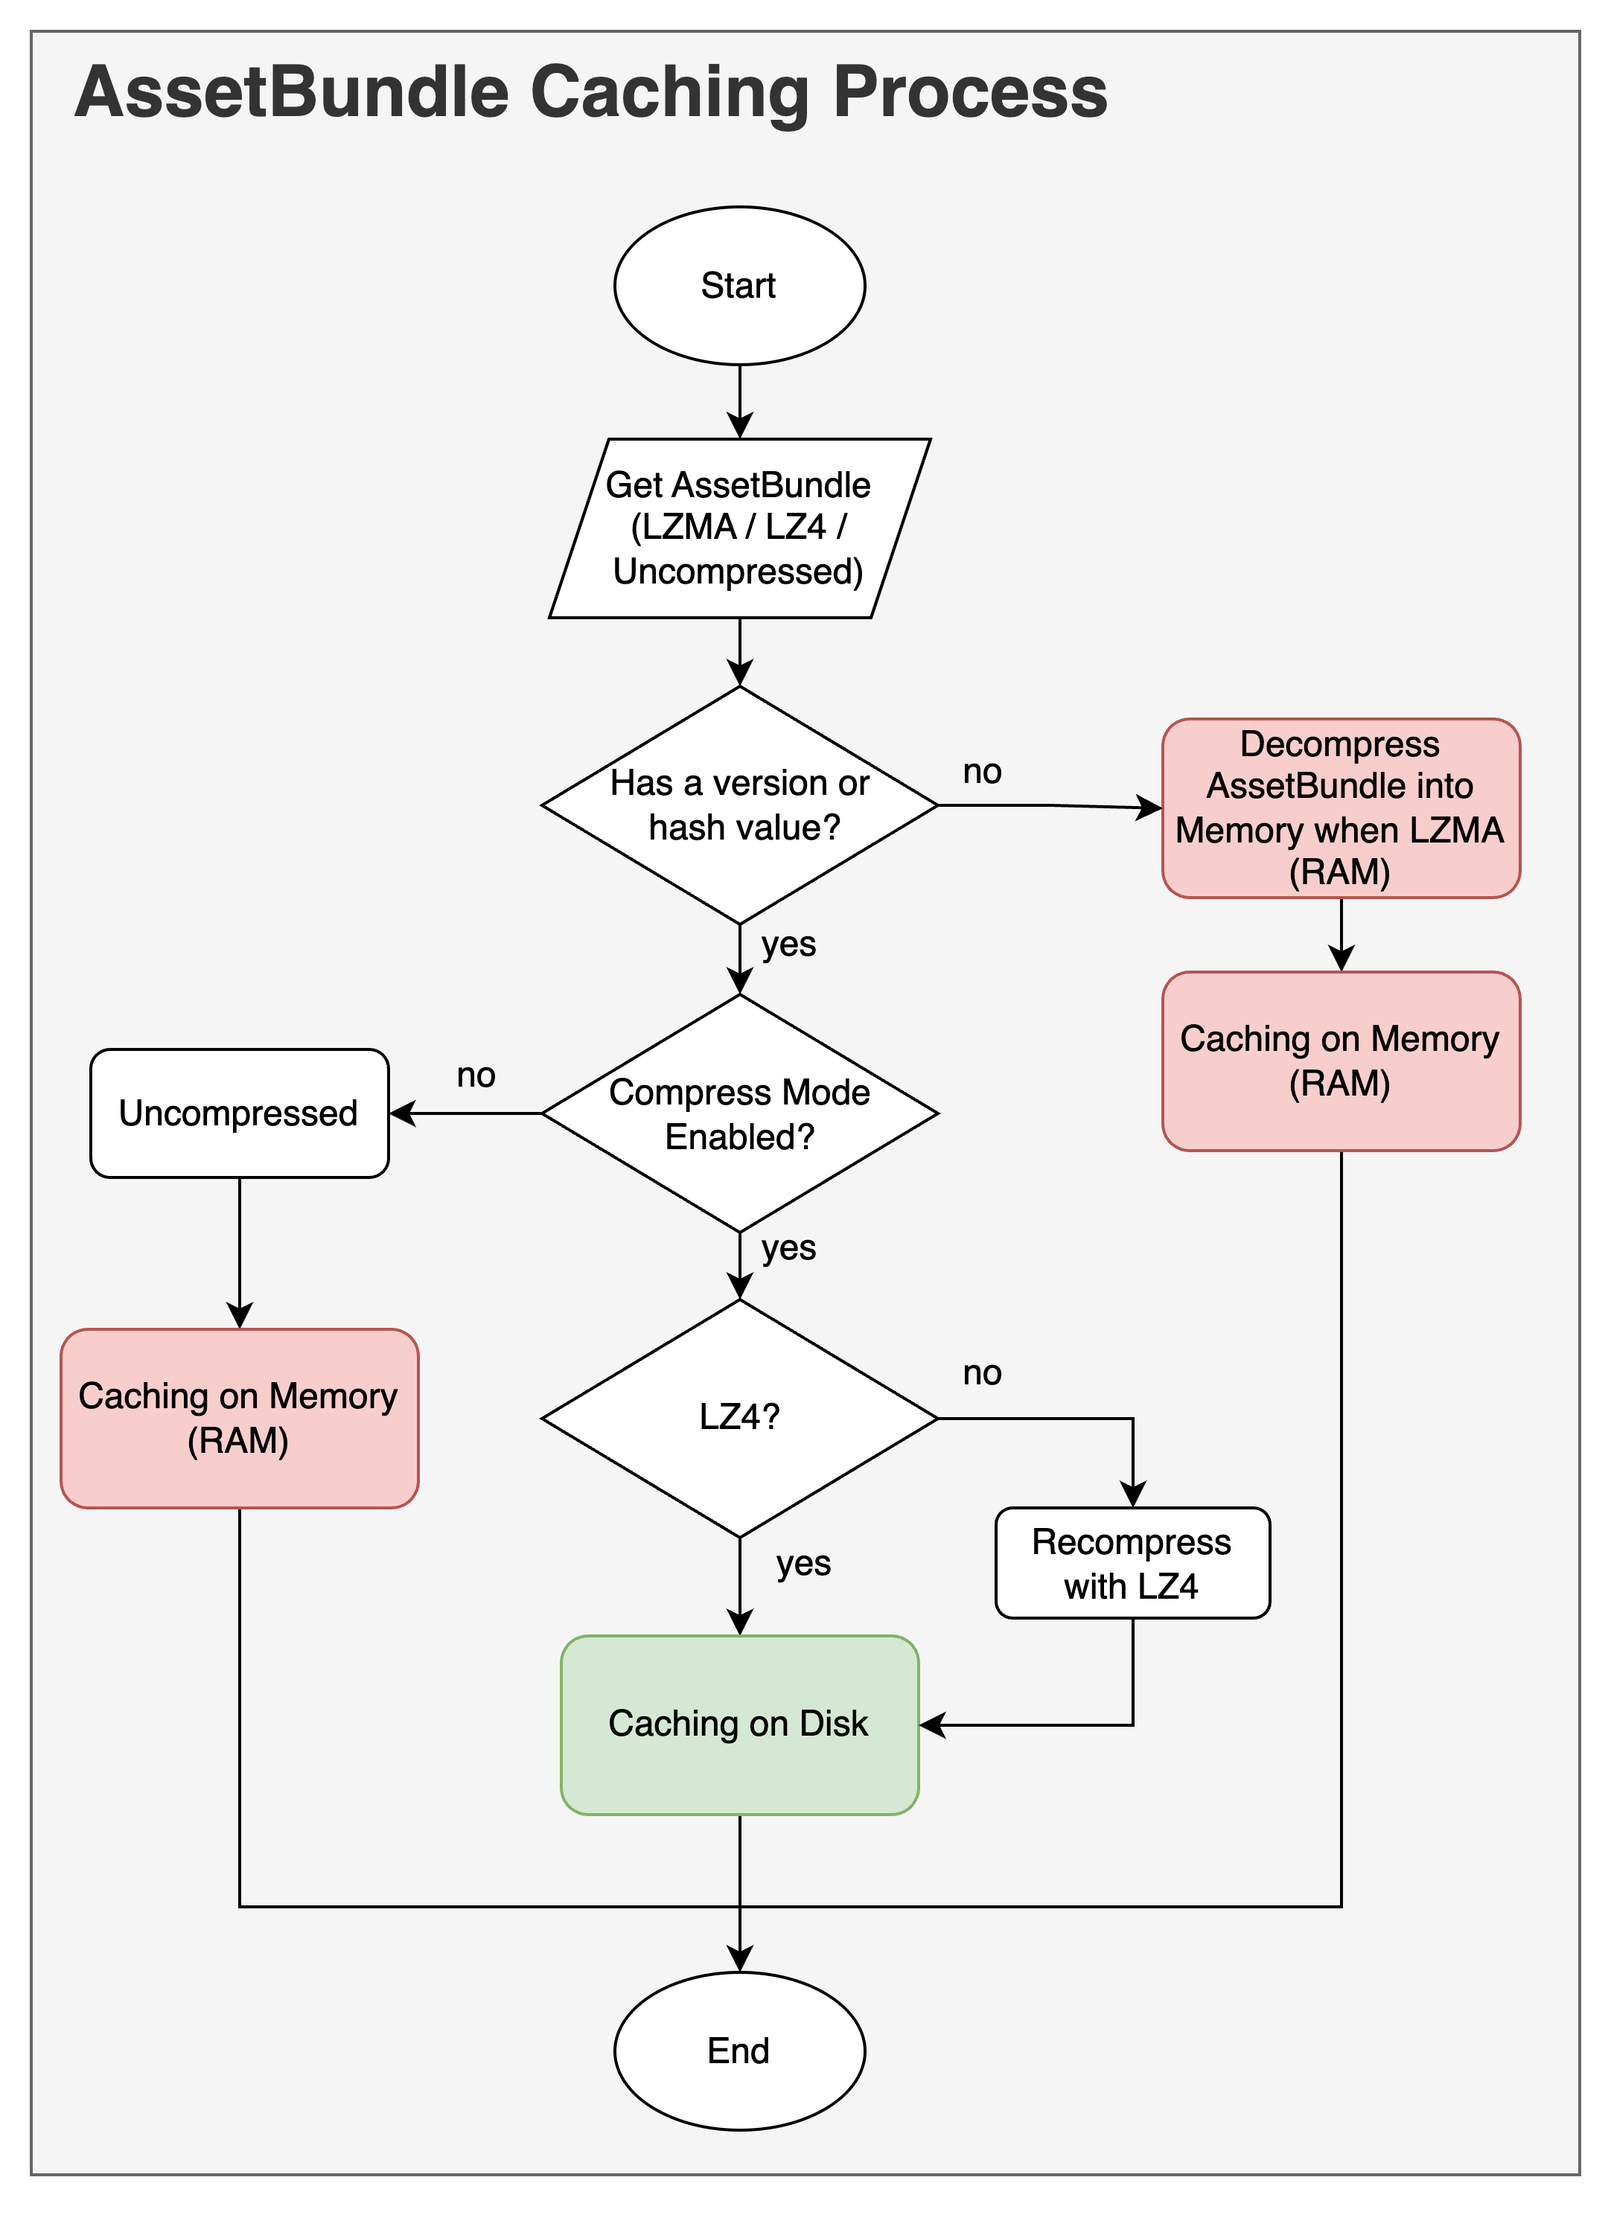
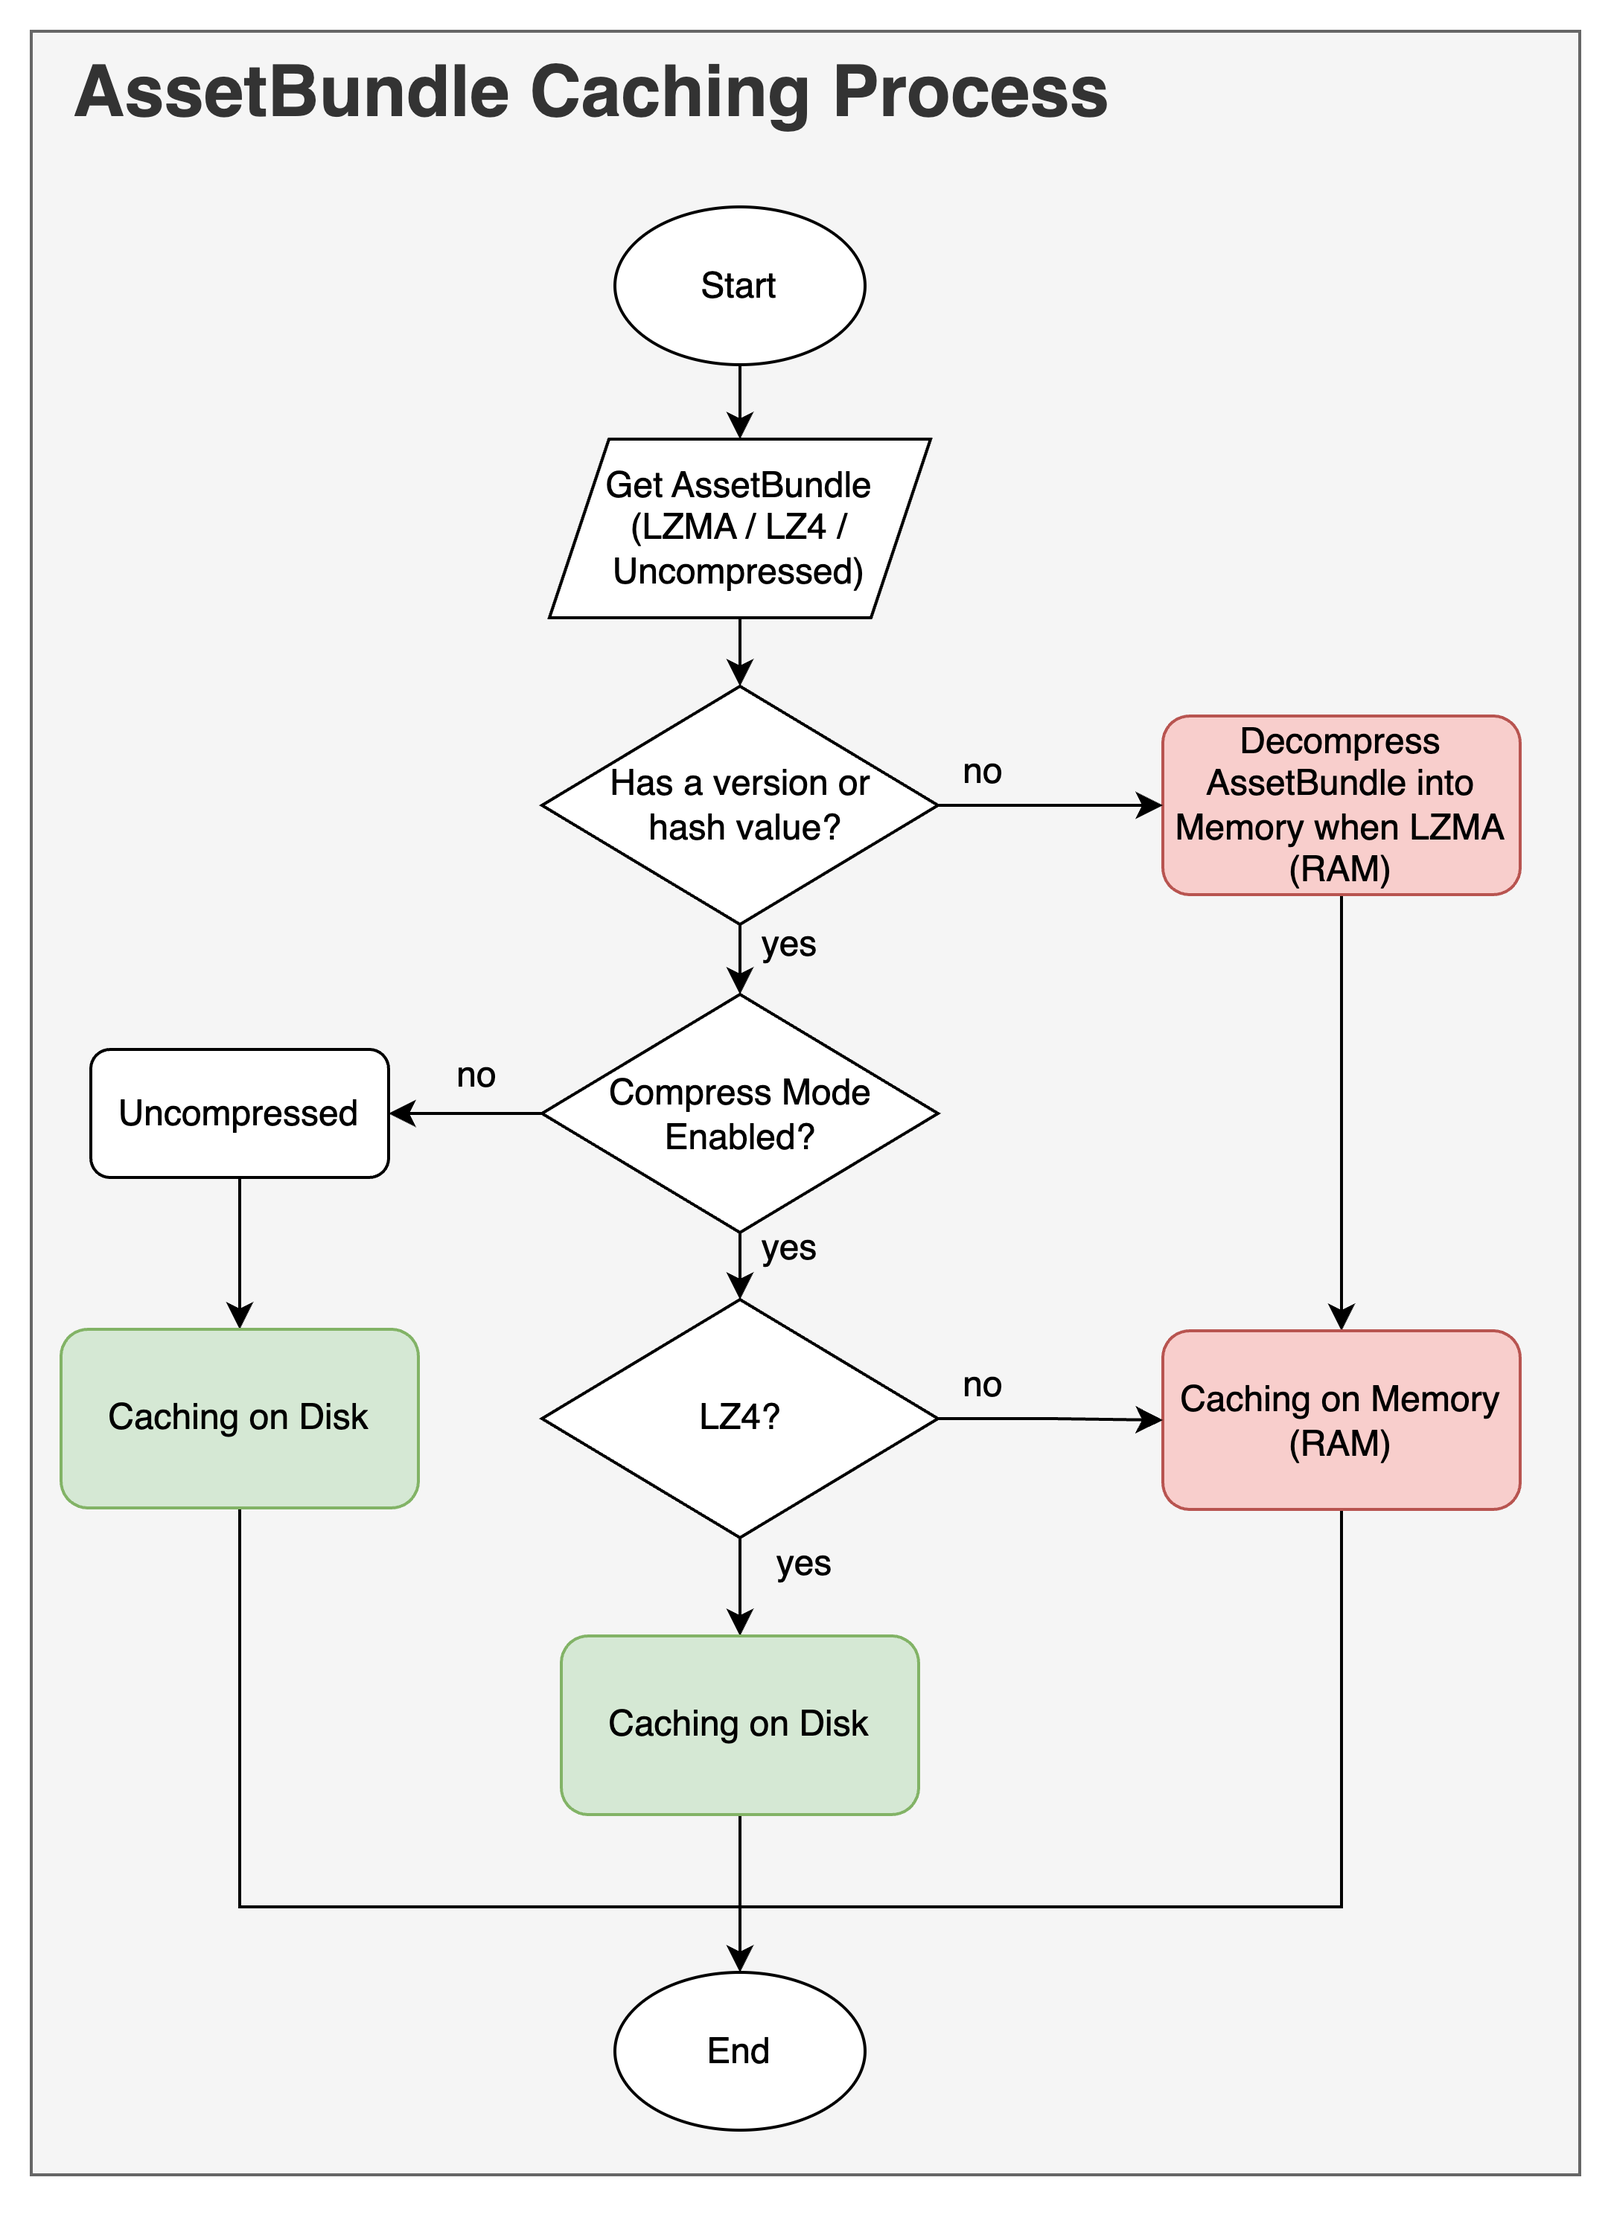
fix post context

diff --git a/_posts/Unity/addressable/2024-05-13-UnityAddressableMemory.md b/_posts/Unity/addressable/2024-05-13-UnityAddressableMemory.md
@@ -59,16 +59,15 @@ flowchart TD
 
 <br>
 
-- Caching을 메모리에 하는건지 로컬 디스크에 하는건지 많이 헤멨다.
-- 정답부터 얘기하면, **어드레서블 그룹의 에셋 번들 캐시 사용 여부 옵션과 에셋 번들 압축 형식에 따라 달라진다.**
-
-![Desktop View](/assets/img/post/unity/unityAddrM_01.png){: : width=500" .normal }      
-_에셋 번들 캐시 옵션_
+- Caching을 메모리에 하는건지 로컬 디스크에 하는건지 궁금했고 많이 헤맸다.
+- 정답부터 얘기하자면, **에셋 번들 압축 포맷에 따라 캐싱 위치가 달라진다.**
 
 <br>
 
-![Desktop View](/assets/img/post/unity/unityAddrM_02.png){: : width=500" .normal }      
-_에셋 번들 압축 형식_
+- 우선 에셋 번들의 압축 포맷은 총 **Uncompressed, LZ4, LZMA** 3가지가 있다.
+> ![Desktop View](/assets/img/post/unity/unityAddrM_07.png){: : width=500" .normal }   
+
+- 어떤 압축 포맷들이 로컬 디스크 혹은 메모리에 캐싱하는지 알아보자.
 
 <br>
 
@@ -80,13 +79,38 @@ _에셋 번들 압축 형식_
 
 - 이까지만 보면 단순히 로컬 디스크에 캐싱해두는구나! 라고 넘어갈 수 있지만, 다음은 에셋 번들 문서를 확인해보자.
 
-- [유니티 에셋 번들 캐싱](https://docs.unity3d.com/2021.3/Documentation/Manual/AssetBundles-Cache.html) 문서를 확인해보면, Uncompressed 형태일 때 에셋 번들을 메모리에 캐싱을 한다고 되어있다. (LZMA 역시 메모리에 캐싱한다는 말이 있는데 이는 확실한 검증이 필요해보인다.)
-- 따라서 메모리 사용량을 줄이기 위해 기본적으로 **LZ4 알고리즘**을 사용해야하며 LZ4를 사용하면 에셋 번들은 전부 **디스크에 캐싱**된다. 
+- [유니티 에셋 번들 캐싱](https://docs.unity3d.com/2021.3/Documentation/Manual/AssetBundles-Cache.html) 문서를 확인해보면 다음 압축 포맷들의 구체적인 작동원리를 확인할 수 있다.
+
+---
+
+#### Uncompressed
+
+- Uncompressed 아예 압축을 하지 않는 것이다. 따라서 비압축 번들은 크기가 크지만 다운로드 이후 접근이 가장 빠른 포맷이기도 하다.
+- 또한 내부 에셋 번들 기능은 헤더 파일을 읽고 번들 내용을 파악할 수 있고 번들을 읽을 때 파일을 고유하게 식별이 가능하므로 메모리에 캐싱하지 않고 **디스크에 캐싱을 진행한다.**
 
 <br>
 
+#### LZ4
+
+- LZ4는 번들 내에서 파일 단위로 압축을 적용한다. 따라서 헤더의 위치를 알고 있으며 전체 번들을  로드하지 않고도 번들에서 헤더를 추출할 수 있다.
+- 이는 Windows 파일 탐색기에서 압축이 작동하는 방식과 유사하다고 한다. (전체 아카이브를 푸는 것 없이 아카이브 내용을 확인할 수 있듯이)
+- 따라서 LZ4는 Uncompressed 와 마찬가지로 번들 파일을 읽을 때 파일을 고유하게 식별이 가능하므로 메모리에 캐싱하지 않고 **디스크에 캐싱을 진행한다.**
+
+<br>
+
+#### LZMA
+
+- LZMA는 전체 번들 파일에 압축을 적용한다. 이는 LZ4 보다 더 나은 압축을 가능하게 하지만, 번들 내의 고유한 파일을 식별할 수 없다.
+- 따라서, 전체 번들을 압축 해제해야한다. 그래서 LZMA 는 **전체 번들을 메모리에 로드**해야하는 유일한 압축 포맷이다.
+
+---
+
+<br>
+
+- 위 내용을 기반으로 플로우차트를 만들었다.
+
 ![Desktop View](/assets/img/post/unity/unityAddrM_03.png){: : width=800" .normal }      
-_에셋 번들 캐싱 프로세스 도식화_
+_에셋 번들 캐싱 프로세스 플로우차트_
 
 <br>
 
@@ -95,13 +119,27 @@ _에셋 번들 캐싱 프로세스 도식화_
 >       
 > LZ4 는 에셋 번들을 "chunk" 로 압축 해제할 수 있는 청크 기반 알고리즘을 사용한다. AssetBundle을 작성하는 동안 콘텐츠의 각 128KB 청크는 저장되기 전에 압축된다. 각 청크가 개별적으로 압축되기 때문에 전체 파일 크기는 LZMA로 압축된 에셋 번들보다 크다. 그러나 이 접근 방식을 사용하면 전체 AssetBundle의 압축을 풀지 않고 요청된 개체에 필요한 청크만 선택적으로 검색하고 로드할 수 있다. LZ4는 디스크 크기가 줄어든다는 추가 이점과 함께 압축되지 않은 번들에 비해 로딩 시간이 비슷하다.     
 >     
-> 따라서 청크 기반 파일에 대해 CRC 검사를 수행하면 파일의 각 청크에 대한 전체 읽기 및 압축 해제가 강제 실행된다. 이 계산은 전체 파일을 RA에 로드하는 대신 청크별로 발생하므로 메모리 문제는 아니지만, 로드 시간이 느려질 수 있다. 참고로 LZMA 형식 에셋 번들의 경우 CRC 검사를 수행하는데 LZ4 만큼 상당한 추가 비용이 들지않는다.     
+> 따라서 청크 기반 파일에 대해 CRC 검사를 수행하면 파일의 각 청크에 대한 전체 읽기 및 압축 해제가 강제 실행된다. 이 계산은 전체 파일을 RA에 로드하는 대신 청크별로 발생하므로 메모리 문제는 아니지만, 로드 시간이 느려질 수 있다. 참고로 LZMA 포맷 에셋 번들의 경우 CRC 검사를 수행하는데 LZ4 만큼 상당한 추가 비용이 들지않는다.     
 > [관련 내용 레퍼런스](https://docs.unity3d.com/6000.0/Documentation/Manual/AssetBundles-Cache.html)
 
 <br>
 
-> 즉, 정리하자면 에셋 번들 압축 형식을 LZ4 알고리즘으로 선택하고, Addressable Group 의 Use Asset Bundle Cache를 활성화 하면     
-> 번들 캐싱을 로컬 디스크에 진행하므로, 번들의 메모리 캐싱을 염려하지 않아도 된다. (모바일 환경에서 최적)
+- 따라서 우리는 어드레서블 그룹 인스펙터에서 다음과 같은 옵션을 활성화 시켜줄 필요성이 있다.
+
+![Desktop View](/assets/img/post/unity/unityAddrM_01.png){: : width=500" .normal }      
+_에셋 번들 캐시 옵션 활성화 해주기_
+
+<br>
+
+![Desktop View](/assets/img/post/unity/unityAddrM_02.png){: : width=500" .normal }      
+_에셋 번들 압축 포맷 LZ4 or Uncompressed_
+
+<br>
+
+> 즉, 정리하자면 에셋 번들 압축 포맷을 Uncompressed 혹은 LZ4 알고리즘으로 선택하고, Addressable Group 의 Use Asset Bundle Cache를 활성화 하면     
+> 번들 캐싱을 로컬 디스크에 진행하므로, 번들의 메모리 캐싱을 염려하지 않아도 된다. (모바일 환경에서 최적)     
+>     
+> 하지만 Uncompressed 의 경우 압축을 전혀 하지 않으므로 Remote 서버 다운로드에 적합하지 않으므로 LZ4 를 사용하는 것을 추천한다.
 {: .prompt-info}
 
 

diff --git a/_posts/ML/2024-4-26-ml01_4.md b/_posts/ML/2024-4-26-ml01_4.md
@@ -350,9 +350,9 @@ $$
 
 - **Implement Gradient Descent**
 - one feature (한개의 특성)에 대한 경사하강 알고리즘을 구현해보자. 이를 위해 다음 세 가지 함수가 필요하다.
-> 1. 'compute_gradient' : 위의 (4)및 (5)번 방정식을 구현하는 함수이다.     
-> 2. 'compute_cost' : 위의 (2)번 방정식을 구현하는 함수이다.     
-> 3. 'gradient_descent' : 'compute_gradient' 및 'compute_cost' 를 활용하는 함수이다.
+> 1. `compute_gradient` : 위의 (4)및 (5)번 방정식을 구현하는 함수이다.     
+> 2. `compute_cost` : 위의 (2)번 방정식을 구현하는 함수이다.     
+> 3. `gradient_descent` : `compute_gradient` 및 `compute_cost` 를 활용하는 함수이다.
 
 - **Convex** (관례)
 - 파이썬 변수 이름에는 편미분을 포함한 컨벡스가 적용된다. 즉 $\frac{\partial J(w,b)}{\partial b}$ 는 `dj_db` 로 나타내게 된다.
@@ -361,7 +361,7 @@ $$
 <br>
 
 - **compute_gradient**
-- 'compute_gradient' 는 (4)번 (5)번 방정식을 구현하고 $\frac{\partial J(w,b)}{\partial w}$,$\frac{\partial J(w,b)}{\partial b}$ 를 반환한다. 내부 주석은 수행되는 작업을 의미함.
+- `compute_gradient` 는 (4)번 (5)번 방정식을 구현하고 $\frac{\partial J(w,b)}{\partial w}$,$\frac{\partial J(w,b)}{\partial b}$ 를 반환한다. 내부 주석은 수행되는 작업을 의미함.
 
 ```python
 def compute_gradient(x, y, w, b): 
@@ -403,16 +403,16 @@ plt.show()
 ![Desktop View](/assets/img/post/ml/ml04_10.png){: : width="800" .normal }    
 
 - 위의 왼쪽 그림은 세 지점에서의 cost curve 에 대한 기울기 또는 $\frac{\partial J(w,b)}{\partial w}$ 를 보여준다.    
-그림의 오른쪽 부분에서 기울기는 양수이고, 왼쪽에서는 음수이다. 'bowl shape' 으로 인해 기울기는 항상 기울기가 0인 아래족으로 경사 하강을 이끌게 된다.
+그림의 오른쪽 부분에서 기울기는 양수이고, 왼쪽에서는 음수이다. `bowl shape` 으로 인해 기울기는 항상 기울기가 0인 아래족으로 경사 하강을 이끌게 된다.
 - 왼쪽 그림에서 $b = 100$ 이 고정 되어 있다. 경사 하강법은 $\frac{\partial J(w,b)}{\partial w}$ 및 $\frac{\partial J(w,b)}{\partial b}$ 를 모두 사용하여 매개 변수를 업데이트 한다.
 
-- 위의 오른쪽 그림인 'quiver plot' 은 두 매개 변수의 기울기를 볼 수 있는 수단을 제공한다. 화살표의 크기는 해당 지점에서의 기울기의 크기를 반영한다. 화살표의 방향과 기울기는 해당 지점에서  $\frac{\partial J(w,b)}{\partial w}$ 와 $\frac{\partial J(w,b)}{\partial b}$ 의 비율을 반영한다.
+- 위의 오른쪽 그림인 `quiver plot` 은 두 매개 변수의 기울기를 볼 수 있는 수단을 제공한다. 화살표의 크기는 해당 지점에서의 기울기의 크기를 반영한다. 화살표의 방향과 기울기는 해당 지점에서  $\frac{\partial J(w,b)}{\partial w}$ 와 $\frac{\partial J(w,b)}{\partial b}$ 의 비율을 반영한다.
 - 기울기가 최소값에서 멀어지는 것을 살펴보자. 위의 방정식 (3)을 검토 필요함. 조정된 기울기가 현재 값에서 $w$ 또는 $b$ 를 뺀다. 이렇게 함으로 매개 변수를 비용을 줄일 방향으로 이동시킨다.
 
 <br>
 
 - **Gradient Descent**
-- 이제 기울기를 계산할 수 있으므로, 위의 방정식 (3)에서 설명한 경사 하강법을 아래의 'gradient_descent' 에 구현할 수 있다.
+- 이제 기울기를 계산할 수 있으므로, 위의 방정식 (3)에서 설명한 경사 하강법을 아래의 `gradient_descent` 에 구현할 수 있다.
 - 주석참조. 아래에서는 이 함수를 사용하여 훈련 데이터에서 $w$와 $b$의 최적값을 찾게 된다.
 
 ```python
@@ -501,7 +501,7 @@ Iteration 9000: Cost 2.90e-05  dj_dw: -1.082e-03, dj_db:  1.751e-03   w:  2.000e
 > ![Desktop View](/assets/img/post/ml/ml04_11.png){: : width="800" .normal }       
 >     
 > 1. 비용은 크게 시작하고 위 슬라이드에서 설명한 대로 빠르게 감소한다.     
-> 2. 편미분인 dj_dw 및 dj_db 도 처음에는 빠르게 감소하고 그 후 더 느리게 감소한다. 강의에서 설명했듯이 과정이 'bottom of the bowl' 에 가까워질수록 편미분의 값이 작아져 진행이 느려진다.     
+> 2. 편미분인 dj_dw 및 dj_db 도 처음에는 빠르게 감소하고 그 후 더 느리게 감소한다. 강의에서 설명했듯이 과정이 `bottom of the bowl` 에 가까워질수록 편미분의 값이 작아져 진행이 느려진다.     
 > 3. 학습률 $\alpha$ 는 고정된 채로 진행이 느려진다.
 
 <br>
@@ -604,7 +604,7 @@ Iteration    9: Cost 5.60e+09  dj_dw:  9.572e+04, dj_db:  5.916e+04   w: -4.845e
 ```
 
 - 위에서 $w$와 $b$가 양수와 음수 사이를 왔다갔다하면서 절대값이 각 반복마다 증가하는 것을 확인할 수 있다.
-- 심지어 각 반복에서 $\frac{\partial J(w,b)}{\partial w}$ 가 부호를 바꾸며 비용이 감소하는 대신 '증가'하는 것을 확인할 수 있다.
+- 심지어 각 반복에서 $\frac{\partial J(w,b)}{\partial w}$ 가 부호를 바꾸며 비용이 감소하는 대신 `증가`하는 것을 확인할 수 있다.
 - 이는 학습률이 너무 크고 솔루션이 발산하고 있다는 명백한 신호이다. 이를 플롯으로 시각화 해보면 다음과 같다.
 
 ```python
